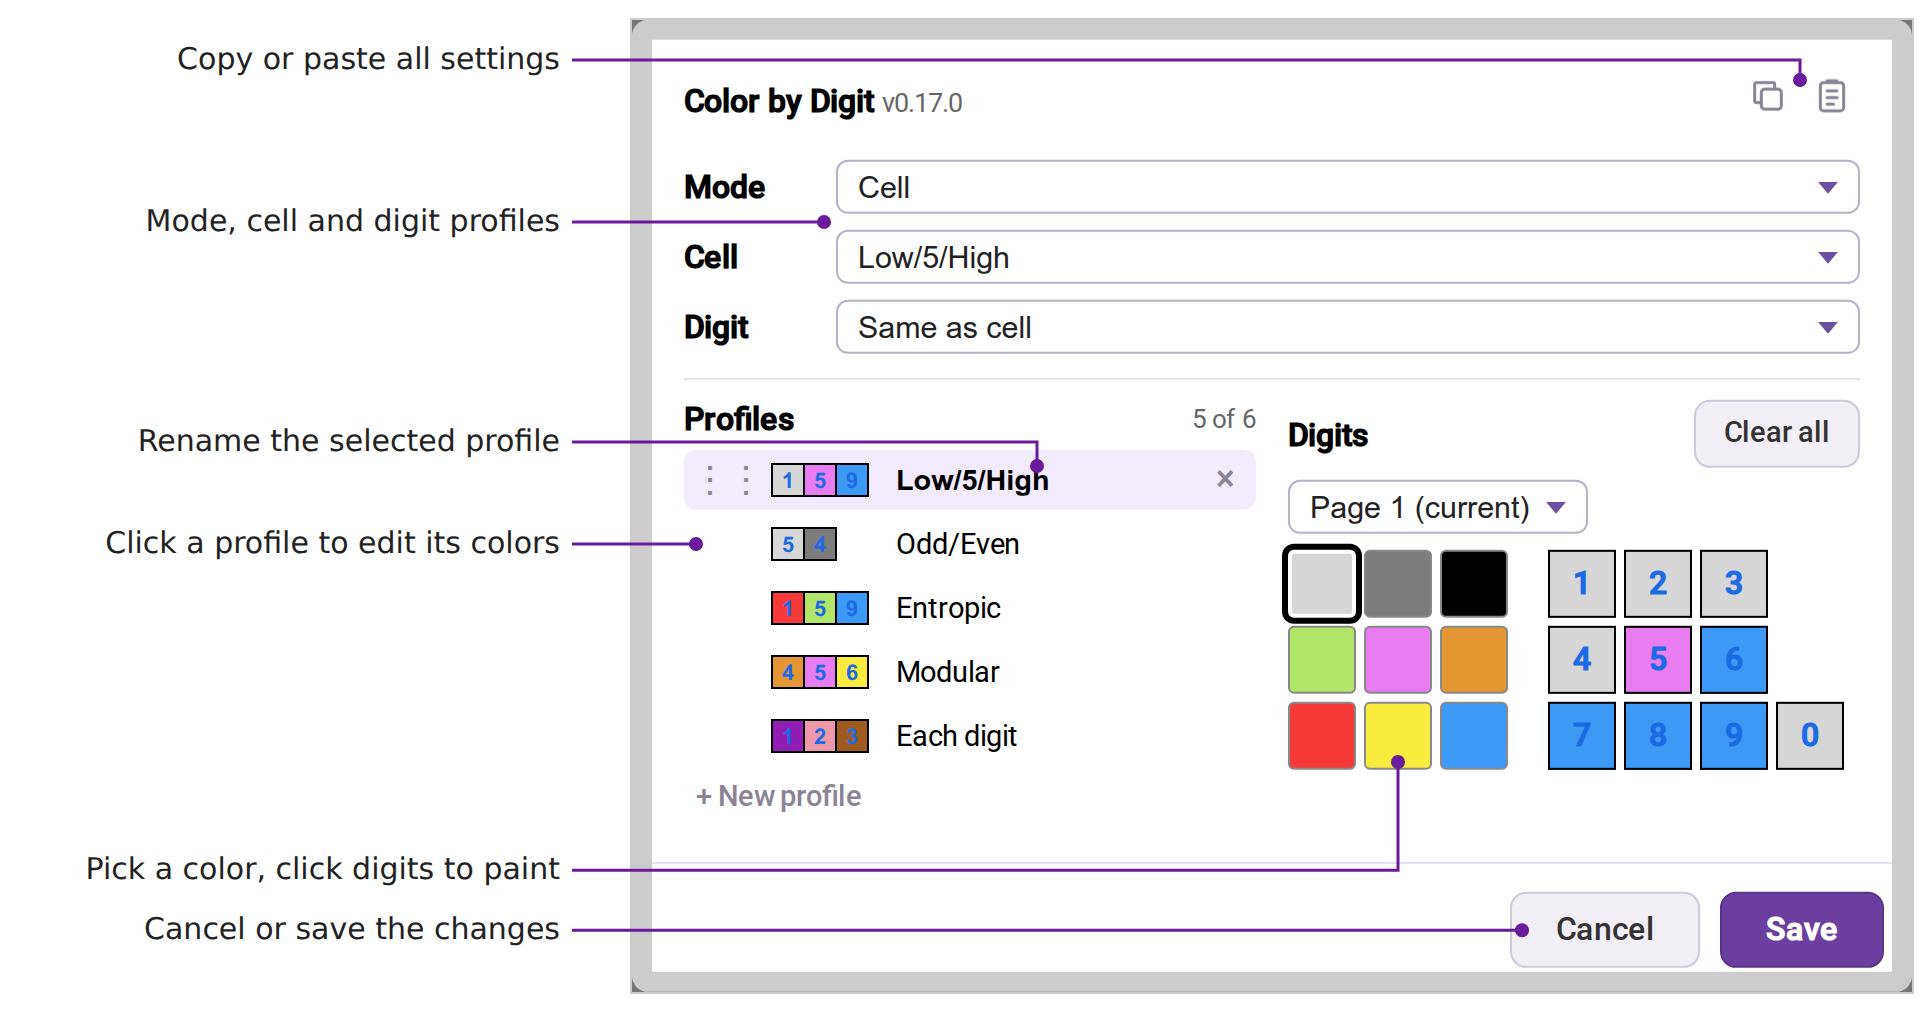
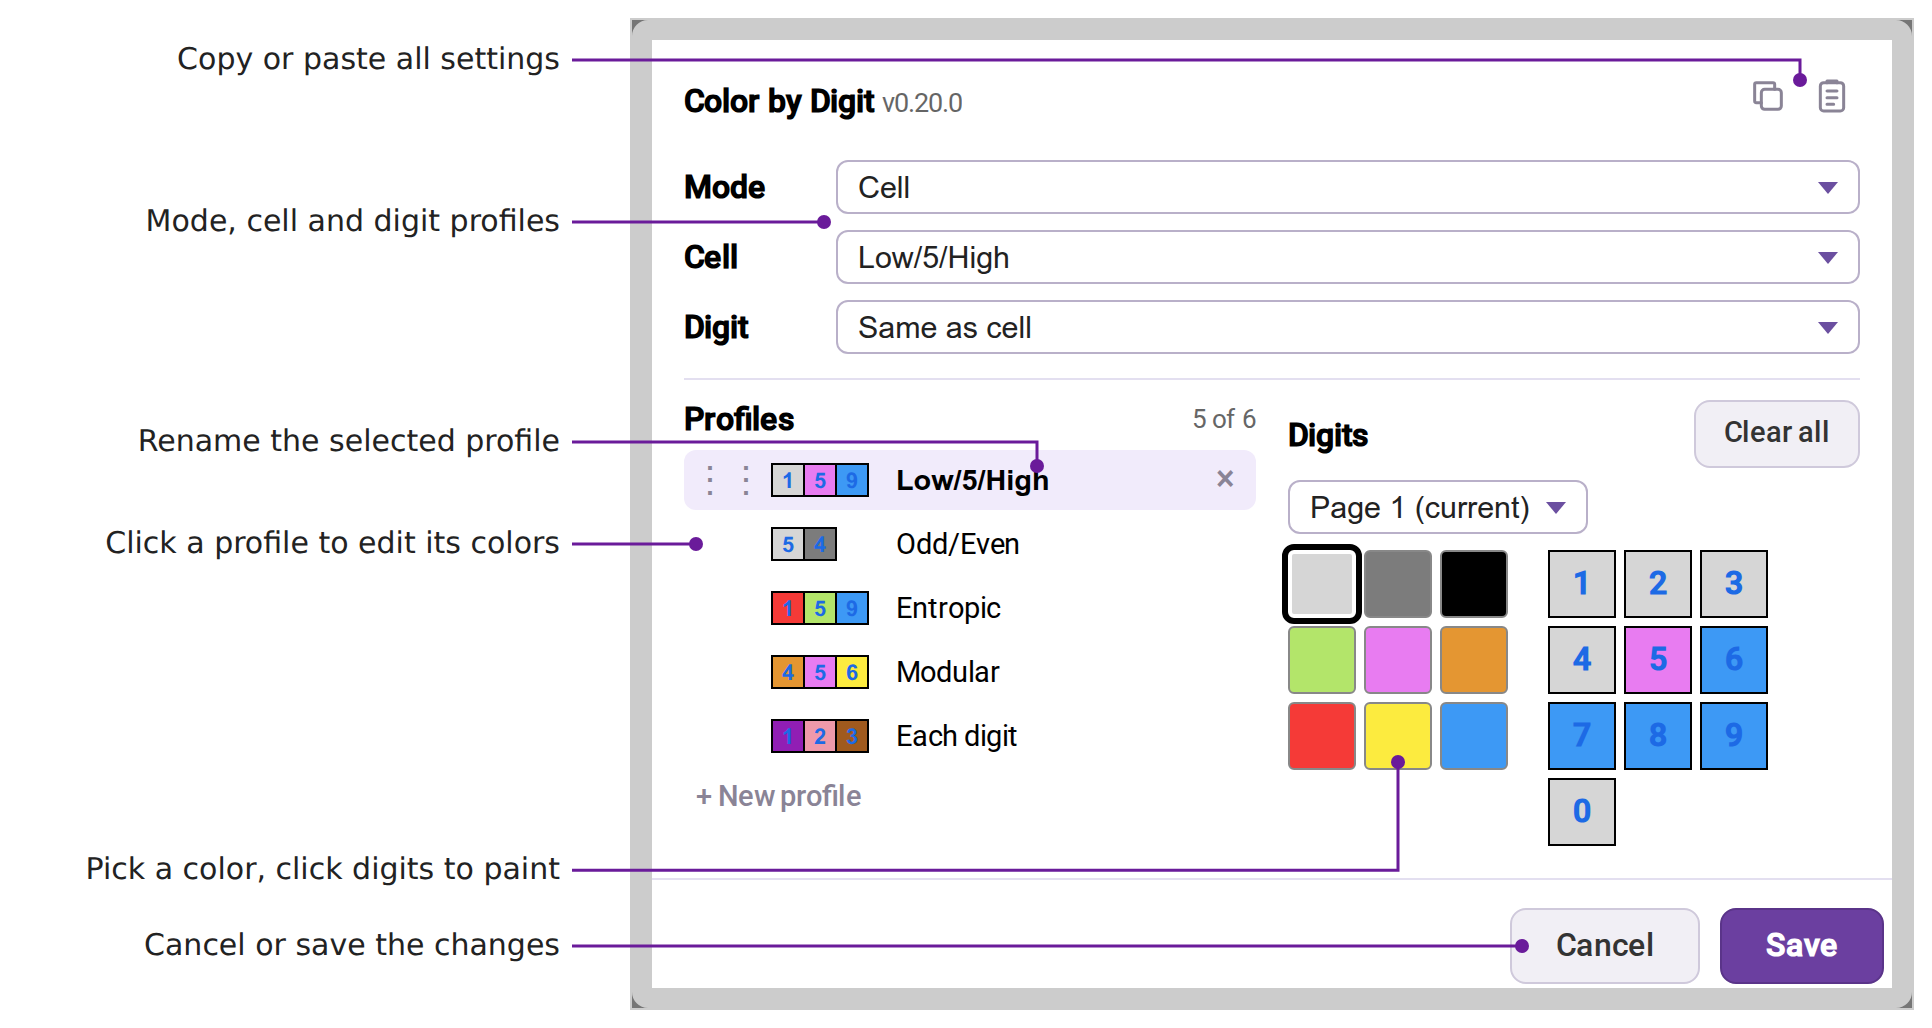
Color by Digit settings: the 0 digit key sits under 7 (#378) (#383)
* Color by Digit settings: the 0 digit key sits under 7, as in SudokuPad's pad

The Digits paint grid puts 0 on a fourth row, first digit slot, with or
without a 0 swatch, so it lines up with SudokuPad's own pad. The grid
loses its fourth digit column. Dialog picture retaken, tags rewritten.

Closes #378

* Color by Digit: review fixes for the 0 key row (#378)

Version 0.19.0; the false pad-columns comment is gone; the paint-row
width is a named constant; the dialog picture is retaken for the new
version and its declared height matches.

Closes #378

* Color by Digit: version 0.20.0 after main's 0.19.0 (#378)

#384 landed 0.19.0 first, so this change takes the next version. The dialog
picture is retaken for it and retagged.

Closes #378

---------

diff --git a/color-by-digit.user.js b/color-by-digit.user.js
@@ -1,7 +1,7 @@
 // ==UserScript==
 // @name         SudokuPad Color by Digit
 // @namespace    https://github.com/caneff/sudokupad-scripts
-// @version      0.19.0
+// @version      0.20.0
 // @description  Colors cells, or the digits and marks in them, by digit, with colors you give to groups of digits, and keeps the colors in step as you solve.
 // @match        https://sudokupad.app/*
 // @match        https://*.sudokupad.app/*
@@ -17,7 +17,7 @@
   'use strict'
 
   // GM_info is absent without Tampermonkey, so the script cannot read @version; keep this equal to it.
-  const VERSION = '0.19.0'
+  const VERSION = '0.20.0'
   const SETTINGS_GROUP = 'experimental'
   // The groups saved before profiles existed. Read when no profiles are saved; never written or removed.
   const LEGACY_GROUPS_KEY = 'ColorByDigit_groups'
@@ -688,18 +688,16 @@
 
   const emptyPage = { rows: [[null, null, null], [null, null, null], [null, null, null]], zero: null }
 
-  // One grid: each row has three swatches, a gap, and three digit keys, so a swatch row lines up with a pad row; 0 sits right of 9.
+  // One grid: each row has three swatches, a gap, and three digit keys, so a swatch row lines up with a pad row. A fourth row holds
+  // the 0 swatch, if the page has one, and the 0 key under 7, where SudokuPad's own pad puts 0.
   function renderPaint (groups, shown, brush, colors) {
     const keyOfDigit = keyOfDigitMap(groups)
     const digitKey = (d) => renderDigitKey(d, keyOfDigit[d], colors)
     const gap = '<span data-empty="gap"></span>'
     const pad = '<span data-empty="pad"></span>'
     const zero = NUMPAD_DIGITS[NUMPAD_DIGITS.length - 1]
-    const rows = shown.rows.map((row, r) => {
-      const digits = NUMPAD_DIGITS.slice(r * 3, r * 3 + 3).map(digitKey).join('')
-      return row.map((slot) => renderSwatch(slot, brush)).join('') + gap + digits + (r === shown.rows.length - 1 ? digitKey(zero) : pad)
-    })
-    if (shown.zero) rows.push(renderSwatch(shown.zero, brush) + renderSwatch(null).repeat(2) + gap + pad.repeat(4))
+    const rows = shown.rows.map((row, r) => row.map((slot) => renderSwatch(slot, brush)).join('') + gap + NUMPAD_DIGITS.slice(r * 3, r * 3 + 3).map(digitKey).join(''))
+    rows.push(renderSwatch(shown.zero, brush) + renderSwatch(null).repeat(2) + gap + digitKey(zero) + pad.repeat(2))
     return `<div data-role="paint">${rows.join('')}</div>`
   }
 
@@ -870,8 +868,7 @@
     [`${EDITOR} .cbd-palette-head`, 'margin-bottom: 6px'],
     [`${EDITOR} select[data-act="page"], ${EDITOR} .cbd-pulldown select`, `font-size: .95rem; padding: 4px 28px 4px 10px; border: 1px solid #b9b0c9; border-radius: 6px; background: #fff ${PULLDOWN_ARROW} no-repeat right 10px center; appearance: none; color: #222`],
     [EDITOR, 'user-select: none; -webkit-user-select: none'],
-    // The pad's columns: three swatches, a gap, three digit keys and the 0 key.
-    [`${EDITOR} [data-role="paint"]`, `display: grid; gap: 4px; grid-template-columns: repeat(${PAGE_COLUMNS}, ${KEY_SIZE}) 12px repeat(4, ${KEY_SIZE}); touch-action: none; margin-top: 8px`],
+    [`${EDITOR} [data-role="paint"]`, `display: grid; gap: 4px; grid-template-columns: repeat(${PAGE_COLUMNS}, ${KEY_SIZE}) 12px repeat(3, ${KEY_SIZE}); touch-action: none; margin-top: 8px`],
     [`${EDITOR} [data-act="digit"]`, `box-sizing: border-box; display: block; width: ${KEY_SIZE}; height: ${KEY_SIZE}; margin: 0; padding: 0; border-radius: 0; border: 1px solid #000; background: #fff; color: #999; font-size: 1rem; font-weight: 700; cursor: pointer`],
     [`${EDITOR} [data-act="digit"]:not([data-key=""])`, `color: ${ENTERED_DIGIT_BLUE}`],
     [`${EDITOR} [data-act="color"]`, `box-sizing: border-box; display: block; width: ${KEY_SIZE}; height: ${KEY_SIZE}; margin: 0; padding: 0; border-radius: 3px; border: 1px solid #888`],

diff --git a/test/color-by-digit.test.js b/test/color-by-digit.test.js
@@ -1353,7 +1353,7 @@ test('renderEditor draws an empty slot as a spacer with no button, so nothing sh
   const pages = layoutPages([keys('clear a1 clear a3 a4 a5 a6 a7 a8 a9')], 0, colorOf)
   const html = editor([], pages, 0, 'a1')
   assert.equal(count(html, /data-act="color"/g), 8)
-  assert.equal(count(html, /data-empty="slot"/g), 1)
+  assert.equal(paintRows(html).slice(0, 3).flat().filter((cell) => cell === 'slot').length, 1)
 })
 
 test('renderEditor marks only the brush as selected', () => {
@@ -1364,15 +1364,39 @@ test('renderEditor marks only the brush as selected', () => {
   assert.equal(count(editor([], twoPages(), 0, null), /aria-pressed="true"/g), 0)
 })
 
-test('renderEditor lays the swatches and the digit keys out as one grid, three swatch columns and the pad beside them with 0 right of 9', () => {
+test('renderEditor lays the swatches and the digit keys out as one grid, three swatch columns and a three-key pad beside them', () => {
   const html = editor([], twoPages(), 0, 'a1')
   assert.deepEqual([...html.matchAll(/data-act="digit"[^>]*data-digit="(\d)"/g)].map((m) => m[1]), ['1', '2', '3', '4', '5', '6', '7', '8', '9', '0'])
+  assert.deepEqual(paintRows(html).slice(0, 3), [
+    ['color', 'color', 'color', 'gap', 'digit', 'digit', 'digit'],
+    ['color', 'color', 'color', 'gap', 'digit', 'digit', 'digit'],
+    ['color', 'color', 'color', 'gap', 'digit', 'digit', 'digit']
+  ])
+  assert.match(STYLE_CSS, /\[data-role="paint"\] \{[^}]*grid-template-columns: repeat\(3, [^)]*\) \d+px repeat\(3, /)
+})
+
+// Each row of the paint grid is the cell kinds it holds, left to right.
+const PAINT_ROW_CELLS = 3 + 1 + 3 // swatches, gap, digit keys
+function paintRows (html) {
   const cells = [...html.matchAll(/<(?:button|span)[^>]*(data-act="color"|data-act="digit"|data-empty="[a-z]+")[^>]*>/g)].map((m) => m[1].replace(/data-(act|empty)="|"/g, ''))
   const rows = []
-  for (let i = 0; i < cells.length && rows.length < 3; i += 8) rows.push(cells.slice(i, i + 8))
-  assert.deepEqual(rows[0], ['color', 'color', 'color', 'gap', 'digit', 'digit', 'digit', 'pad'])
-  assert.deepEqual(rows[2], ['color', 'color', 'color', 'gap', 'digit', 'digit', 'digit', 'digit'])
-  assert.match(STYLE_CSS, /\[data-role="paint"\] \{[^}]*grid-template-columns: repeat\(3, [^)]*\) \d+px repeat\(4, /)
+  for (let i = 0; i < cells.length; i += PAINT_ROW_CELLS) rows.push(cells.slice(i, i + PAINT_ROW_CELLS))
+  return rows
+}
+
+test('renderEditor puts 0 on a fourth row under 7 when the page has a 0 swatch', () => {
+  const [lit] = layoutPages([keys('z a1 a2 a3 a4 a5 a6 a7 a8 a9')], 0, colorOf)
+  const rows = paintRows(editor([], [lit]))
+  assert.equal(rows.length, 4)
+  assert.deepEqual(rows[3], ['color', 'slot', 'slot', 'gap', 'digit', 'pad', 'pad'])
+  assert.match(renderEditor({ groups: [], pages: [lit], page: 0, brush: null }), /data-digit="0"[^>]*>0<\/button><span data-empty="pad"><\/span><span data-empty="pad"><\/span><\/div>/)
+})
+
+test('renderEditor puts 0 on a fourth row under 7 when the page has no 0 swatch', () => {
+  const [dark] = layoutPages([keys('clear a1 a2 a3 a4 a5 a6 a7 a8 a9')], 0, colorOf)
+  const rows = paintRows(editor([], [dark]))
+  assert.equal(rows.length, 4)
+  assert.deepEqual(rows[3], ['slot', 'slot', 'slot', 'gap', 'digit', 'pad', 'pad'])
 })
 
 test('renderEditor draws a digit key as a cell filled with its group\'s color, and a digit in no group blank', () => {

diff --git a/site/color-by-digit.html b/site/color-by-digit.html
@@ -54,7 +54,7 @@
 
   <h2>The settings dialog</h2>
   <p class="prose">Edit profiles, in the profile menu, opens it.</p>
-  <div class="figure"><img src="https://raw.githubusercontent.com/caneff/sudokupad-scripts/main/docs/research/color-by-digit/color-by-digit-dialog-annotated.png?v=2050607" alt="The Color by Digit settings dialog with each part labelled on its left. Settings icons: copy or paste all settings. Pulldowns: mode, cell and digit profiles. Selected profile: rename it in its row. Profile list: click a profile to edit its colors. Palette and digits: click a color, then click or drag across digits to paint them. Bottom row: cancel or save the changes." width="966" height="507"></div>
+  <div class="figure"><img src="https://raw.githubusercontent.com/caneff/sudokupad-scripts/main/docs/research/color-by-digit/color-by-digit-dialog-annotated.png?v=dd114e1" alt="The Color by Digit settings dialog with each part labelled on its left. Settings icons: copy or paste all settings. Pulldowns: mode, cell and digit profiles. Selected profile: rename it in its row. Profile list: click a profile to edit its colors. Palette and digits: click a color, then click or drag across digits to paint them. Bottom row: cancel or save the changes." width="966" height="514"></div>
   <ol class="steps">
     <li><strong>Choose what colors what.</strong> The pulldowns set the Mode, the Cell profile and the Digit profile.</li>
     <li><strong>Pick a profile to edit.</strong> Click a row in the list. You can also rename, reorder, delete or copy it.</li>

diff --git a/README.md b/README.md
@@ -34,7 +34,7 @@ Settings live in the browser's own storage, so another browser profile or device
 In Cell mode, every cell holding a digit, and every empty cell whose center marks all belong to one group, takes its group's color and keeps it in step as you solve. In Digit mode the digits themselves take it instead, in a darker shade, and Both does both. You set the groups in a settings dialog.
 
 - **Profiles** are named lists of groups, one to six of them, with exactly one active. A fresh install has five preloads: Low/5/High (active), Odd/Even, Entropic (0-3, 4-6, 7-9), Modular (1/4/7, 2/5/8, 0/3/6/9) and Each digit (1 to 9 each on its own color, 0 in no group: 5 to 9 on their own keys of the first palette page, and 1 to 4 on purple, pink and brown from the second page and green from the third, so no digit's shade is black or grey like a given). An install with saved profiles gets Entropic and Modular added once, and Each digit once, each unless a profile already has the same groups or the six profiles are taken; delete one and it stays deleted. The button's icon shows the active profile as **chips**: a run of joined board cells, one per group color (the first three, so Each digit's is no wider than the others). The profile menu and the dialog's profile list show every profile as the same run, drawn as Cell mode draws it; the button draws it in the mode's look. Each cell carries the group's shown digit: with 0 left out, the lowest if every digit is below 5, the highest if every digit is above 5, else the middle (the lower middle on an even count), so Low/5/High shows 1, 5 and 9. A group of only 0 shows 0. Groups you saved before profiles existed become the active profile: the preload they match, else a new first profile named Custom, with the five preloads beside it.
-- **The profile menu** opens from the arrow box on the button, a right click on it, or a hold on it. Pick a profile and it becomes active at once (with the Digit pulldown on a named profile, see below, each row instead ends in a Cell dot and a Digit dot, under the words Cell and Digit). In Cell and Both the old profile's group colors come off every cell and every cell that holds one group's digit (or has only that group's center marks) gets its new color, as one undo step; in Digit and Both the digits take their new shades. Edit profiles… opens the settings dialog, where you reorder profiles by dragging the handle, delete one with ×, and click a row to select it (a row's handle and × show while the pointer is over it, and always on the selected row): the selected row's name is a field you can rename it in (an empty box keeps the old name), and the right column edits its groups by painting. A page pulldown sits above one grid: the palette's swatches on the left and a pad of ten digit keys (1 to 9, 0 right of 9) on the right, each digit key filled with its digit's color and blank when the digit is in no group. Click a swatch to make that color the brush (it starts as the color of the profile's lowest group), then click digit keys to paint them; a click on a digit already in the brush color clears it. You can also press on a digit and drag across others to paint them all, or start the drag on a digit already in the brush color to clear instead. A group is the digits that share a color, so a color with no digits is no group, and the groups run in order of their lowest digit, with 0 after 9. Clear all clears every digit. Groups saved with two entries in one color, which the old group editor allowed, are merged into one when the dialog opens. Selecting a row changes no color and sets no profile: the list is only for editing, and the three pulldowns at the top of the dialog do the picking. + New profile, under the list, adds a copy of the selected profile named after it with " copy", selects it and puts the cursor in its name; it is disabled at six profiles. Save applies every change at once; Cancel drops them.
+- **The profile menu** opens from the arrow box on the button, a right click on it, or a hold on it. Pick a profile and it becomes active at once (with the Digit pulldown on a named profile, see below, each row instead ends in a Cell dot and a Digit dot, under the words Cell and Digit). In Cell and Both the old profile's group colors come off every cell and every cell that holds one group's digit (or has only that group's center marks) gets its new color, as one undo step; in Digit and Both the digits take their new shades. Edit profiles… opens the settings dialog, where you reorder profiles by dragging the handle, delete one with ×, and click a row to select it (a row's handle and × show while the pointer is over it, and always on the selected row): the selected row's name is a field you can rename it in (an empty box keeps the old name), and the right column edits its groups by painting. A page pulldown sits above one grid: the palette's swatches on the left and a pad of ten digit keys (1 to 9, 0 under 7) on the right, each digit key filled with its digit's color and blank when the digit is in no group. Click a swatch to make that color the brush (it starts as the color of the profile's lowest group), then click digit keys to paint them; a click on a digit already in the brush color clears it. You can also press on a digit and drag across others to paint them all, or start the drag on a digit already in the brush color to clear instead. A group is the digits that share a color, so a color with no digits is no group, and the groups run in order of their lowest digit, with 0 after 9. Clear all clears every digit. Groups saved with two entries in one color, which the old group editor allowed, are merged into one when the dialog opens. Selecting a row changes no color and sets no profile: the list is only for editing, and the three pulldowns at the top of the dialog do the picking. + New profile, under the list, adds a copy of the selected profile named after it with " copy", selects it and puts the cursor in its name; it is disabled at six profiles. Save applies every change at once; Cancel drops them.
 - **The Cell and Digit pulldowns**, at the top of the settings dialog, pick the profile that colors the cells (Cell, the active profile) and the one that colors the digits (Digit). Digit starts on **Same as cell** on a fresh install and after an update: one profile colors cells and digits, and a menu pick moves both. Pick a profile by name in Digit and there are two picks from the one list, a cell profile for Cell and Both and a digit profile for Digit and Both, and the profile menu shows them as two columns of dots, Cell and Digit; a Cell dot recolors only the cells (one undo step), and a Digit dot only the digits. Picking a name in Digit while it says Same as cell starts the digit profile on the profile you pick; picking Same as cell again makes the digits take the cell profile. The button's icon shows the cell profile in Cell, Both and Off, and the digit profile in Digit. Deleting the digit profile makes the digits follow the cell profile again (Same as cell).
 - **Digit: None** drops digit coloring altogether: a press steps Cell ↔ Off, the Mode pulldown offers only Cell and Off, the profile menu drops its Cell and Digit dots, and no digit is colored or circled. Picking None while the mode is Digit moves it to Off, in Both to Cell. Pick Same as cell or a profile again and the four modes and the digit profile come back; the mode stays where None moved it. All three pulldowns are drafts: Save applies them, Cancel drops them. Copy settings and Paste settings carry the choice and the digit profile; settings copied before them paste as coloring digits.
 - **The mode** is Cell, Digit, Both or Off, shown by how the button draws its chips, the way the mode colors the board: Cell fills the cells with their group colors and SudokuPad's blue digits; Digit leaves them white with the digits in their darker shades; Both fills them with the shaded digits; Off draws them white and grey. The button's tooltip names the mode. A short press on the button steps it, Cell → Digit → Both → Off → Cell, and the settings dialog has the same choice as its Mode pulldown; Save applies a changed mode as a press would. A fresh install starts in Cell; an install that had the old auto mode keeps its look, Cell if auto mode was on and Off if it was off.

diff --git a/GLOSSARY.md b/GLOSSARY.md
@@ -6,7 +6,7 @@
 - **brush** — the palette color picked in the dialog's palette, shown selected. A click on a digit key paints the
   digit with it, or clears the digit when it already has that color. It starts as the color of the selected
   profile's lowest group, else the first visible color of the current page.
-- **digit key** — one of the ten buttons in the dialog's pad (1 to 9, then 0 right of 9). It is filled with its
+- **digit key** — one of the ten buttons in the dialog's pad (1 to 9, then 0 under 7). It is filled with its
   digit's group color, or blank when the digit is in no group.
 - **pure cell** — a cell that belongs to exactly one group: its given or entered digit is in that
   group or, with no digit, all its centre marks are. Corner marks never count. A cell with no digit
